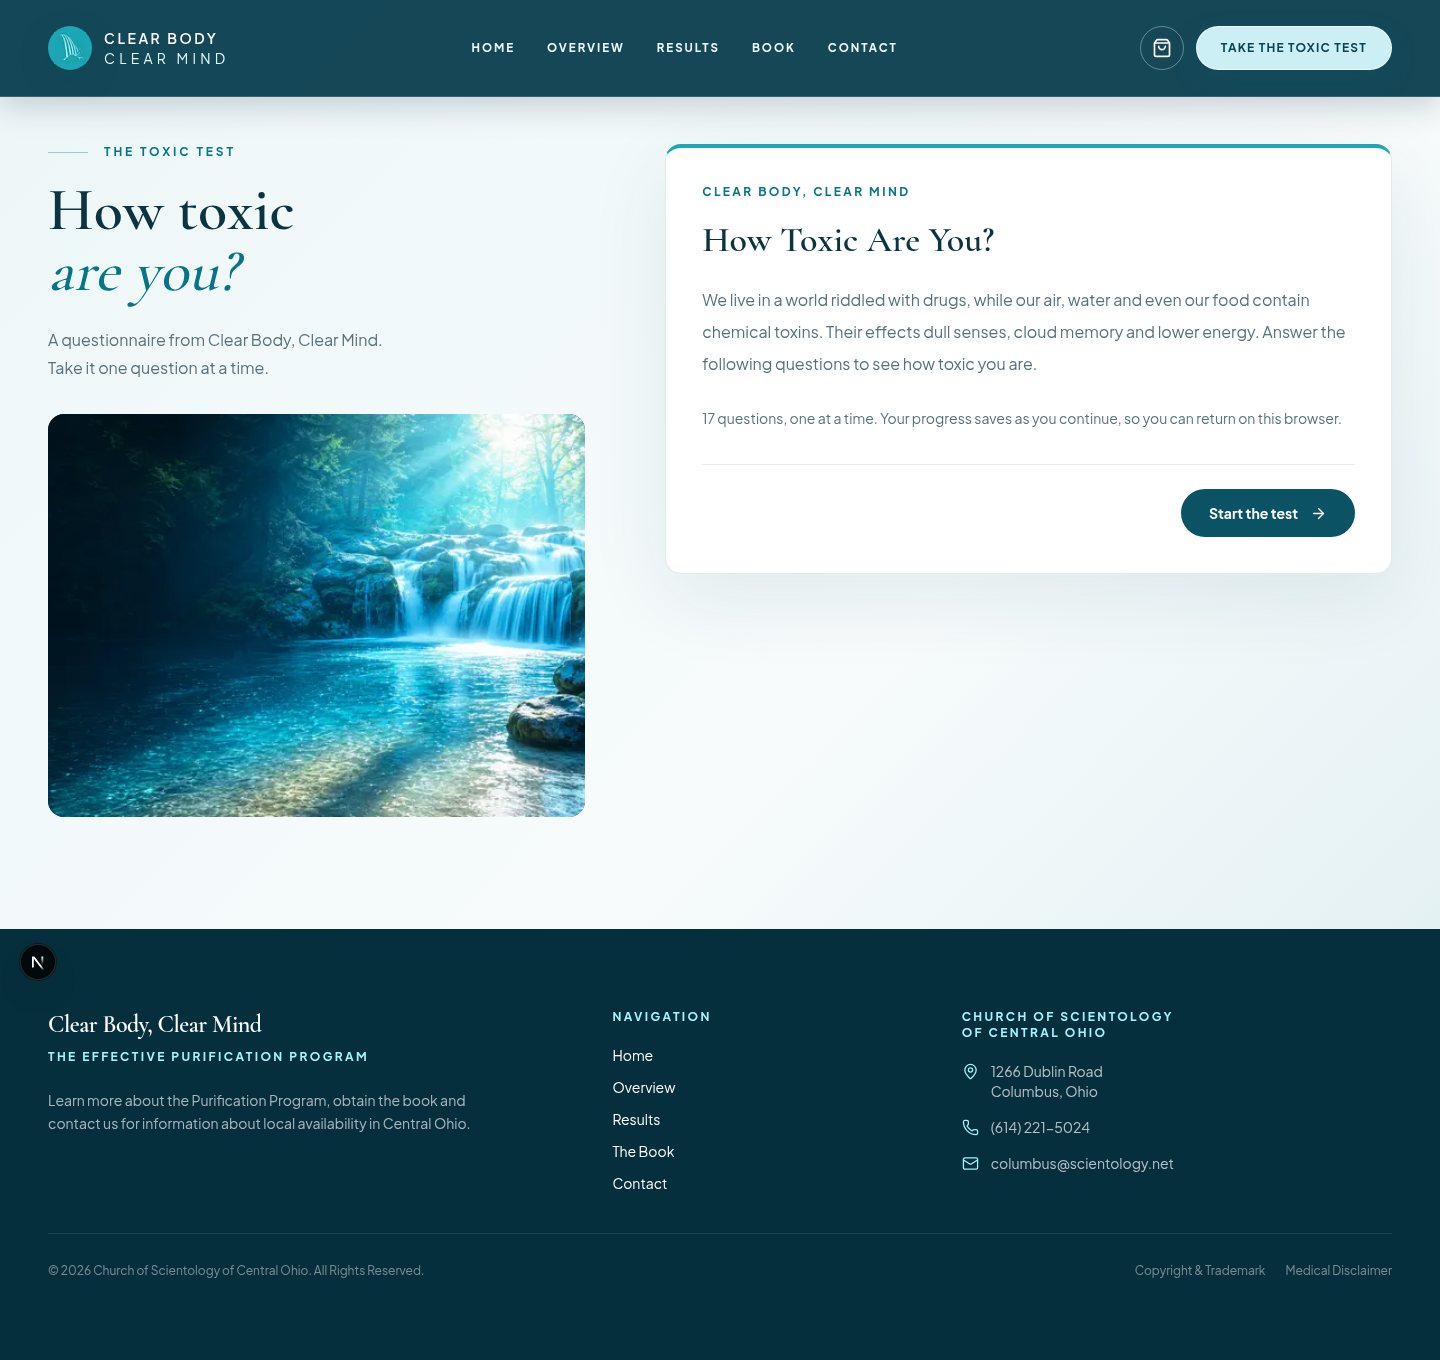
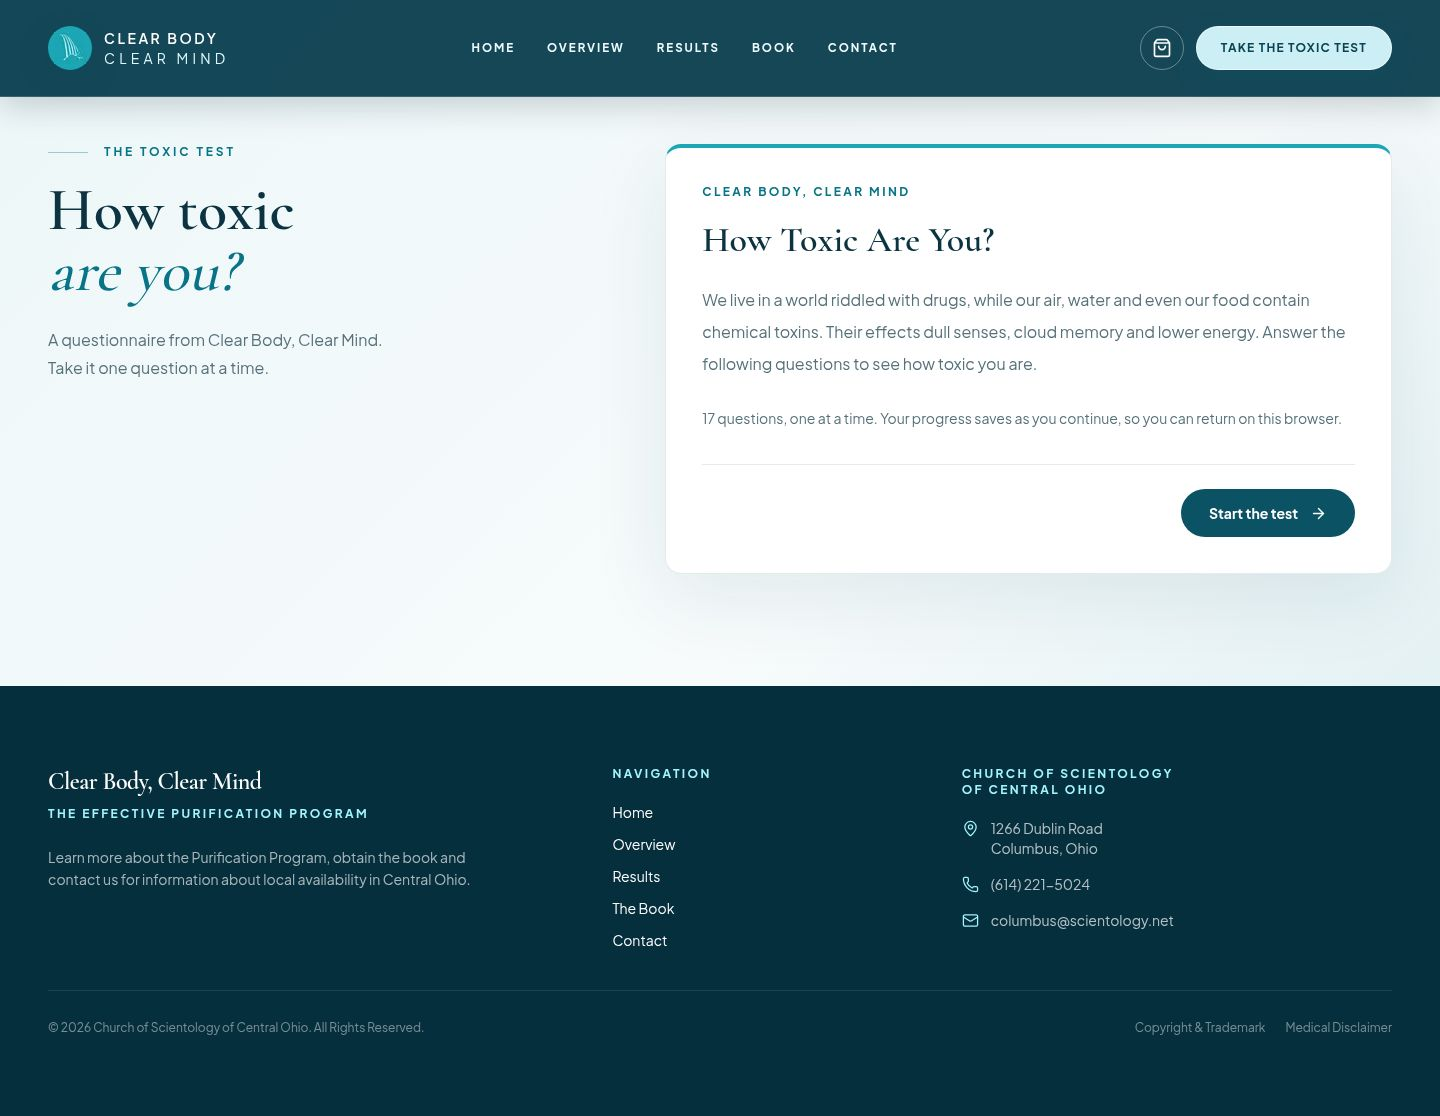
Remove cropped waterfall from Toxic Test layout

diff --git a/app/toxic-test/page.tsx b/app/toxic-test/page.tsx
@@ -1,9 +1,8 @@
 import type { Metadata } from "next";
-import Image from "next/image";
 import Header from "@/components/layout/Header";
 import Footer from "@/components/layout/Footer";
 import ToxicTestForm from "@/components/toxic-test/ToxicTestForm";
 export const metadata: Metadata = { title: "Toxic Test | Clear Body, Clear Mind Central Ohio", description: "Take the Toxic Test with Clear Body, Clear Mind in Central Ohio.", robots: { index: false } };
 export default function ToxicTestPage() {
-  return <><Header /><main className="bg-[linear-gradient(135deg,#edf7f8_0%,#f7fbfc_65%,#e4f1f3_100%)] px-5 pb-20 pt-32 sm:px-8 lg:px-12 lg:pb-28 lg:pt-36"><div className="mx-auto grid max-w-[1440px] items-start gap-9 lg:grid-cols-[0.85fr_1.15fr] lg:gap-20"><div><div className="flex items-center gap-4"><span aria-hidden="true" className="h-px w-10 bg-[#087487]/35" /><p className="text-xs font-bold uppercase tracking-[0.24em] text-[#087487]">The Toxic Test</p></div><h1 className="mt-5 font-display text-5xl font-semibold leading-[1.02] text-[#0c3341] sm:text-6xl">How toxic<br /><span className="font-medium italic text-[#087487]">are you?</span></h1><p className="mt-6 max-w-md text-base leading-7 text-[#56717a]">A questionnaire from Clear Body, Clear Mind.<br />Take it one question at a time.</p><div className="relative mt-8 hidden aspect-[4/3] overflow-hidden rounded-2xl bg-[#0c5265] lg:block"><Image src="/images/hero/waterfall-hero.png" alt="Waterfall flowing through a green forest" fill sizes="40vw" className="object-cover" /></div></div><ToxicTestForm /></div></main><Footer /></>;
+  return <><Header /><main className="bg-[linear-gradient(135deg,#edf7f8_0%,#f7fbfc_65%,#e4f1f3_100%)] px-5 pb-20 pt-32 sm:px-8 lg:px-12 lg:pb-28 lg:pt-36"><div className="mx-auto grid max-w-[1440px] items-start gap-9 lg:grid-cols-[0.85fr_1.15fr] lg:gap-20"><div><div className="flex items-center gap-4"><span aria-hidden="true" className="h-px w-10 bg-[#087487]/35" /><p className="text-xs font-bold uppercase tracking-[0.24em] text-[#087487]">The Toxic Test</p></div><h1 className="mt-5 font-display text-5xl font-semibold leading-[1.02] text-[#0c3341] sm:text-6xl">How toxic<br /><span className="font-medium italic text-[#087487]">are you?</span></h1><p className="mt-6 max-w-md text-base leading-7 text-[#56717a]">A questionnaire from Clear Body, Clear Mind.<br />Take it one question at a time.</p></div><ToxicTestForm /></div></main><Footer /></>;
 }
